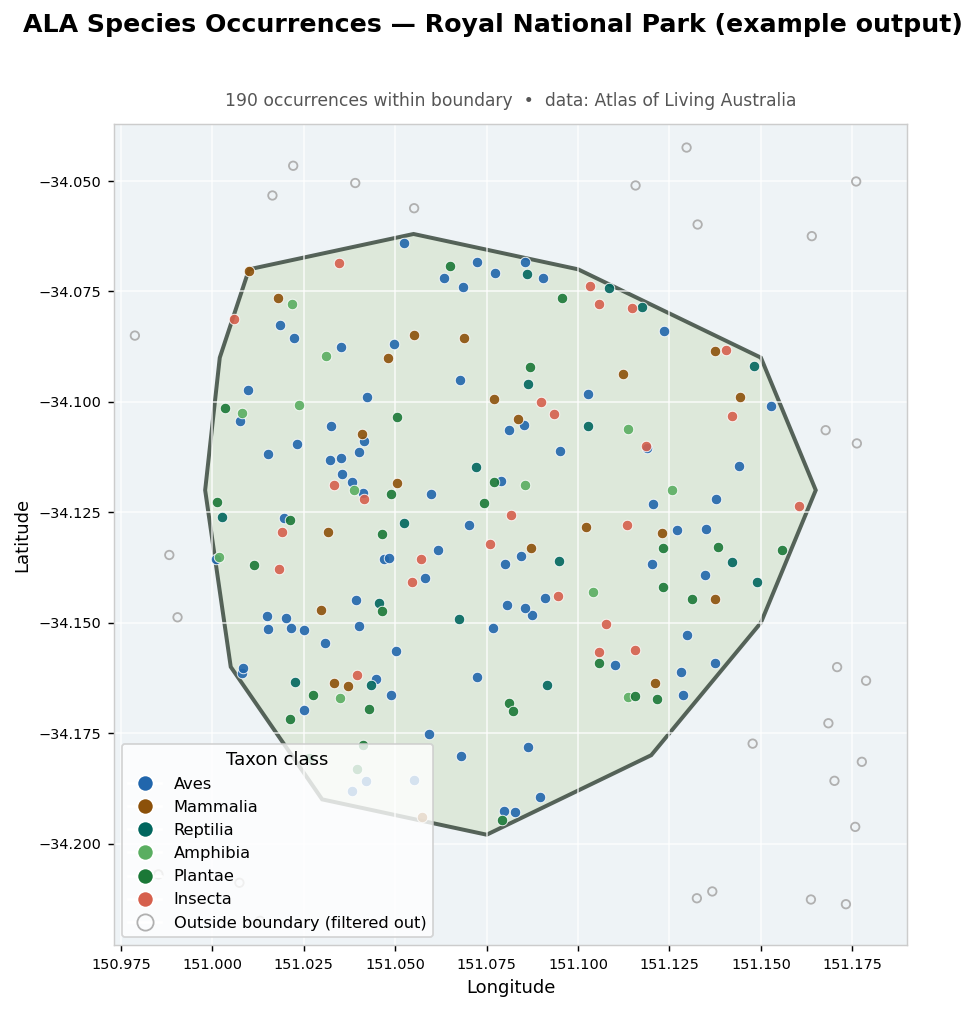
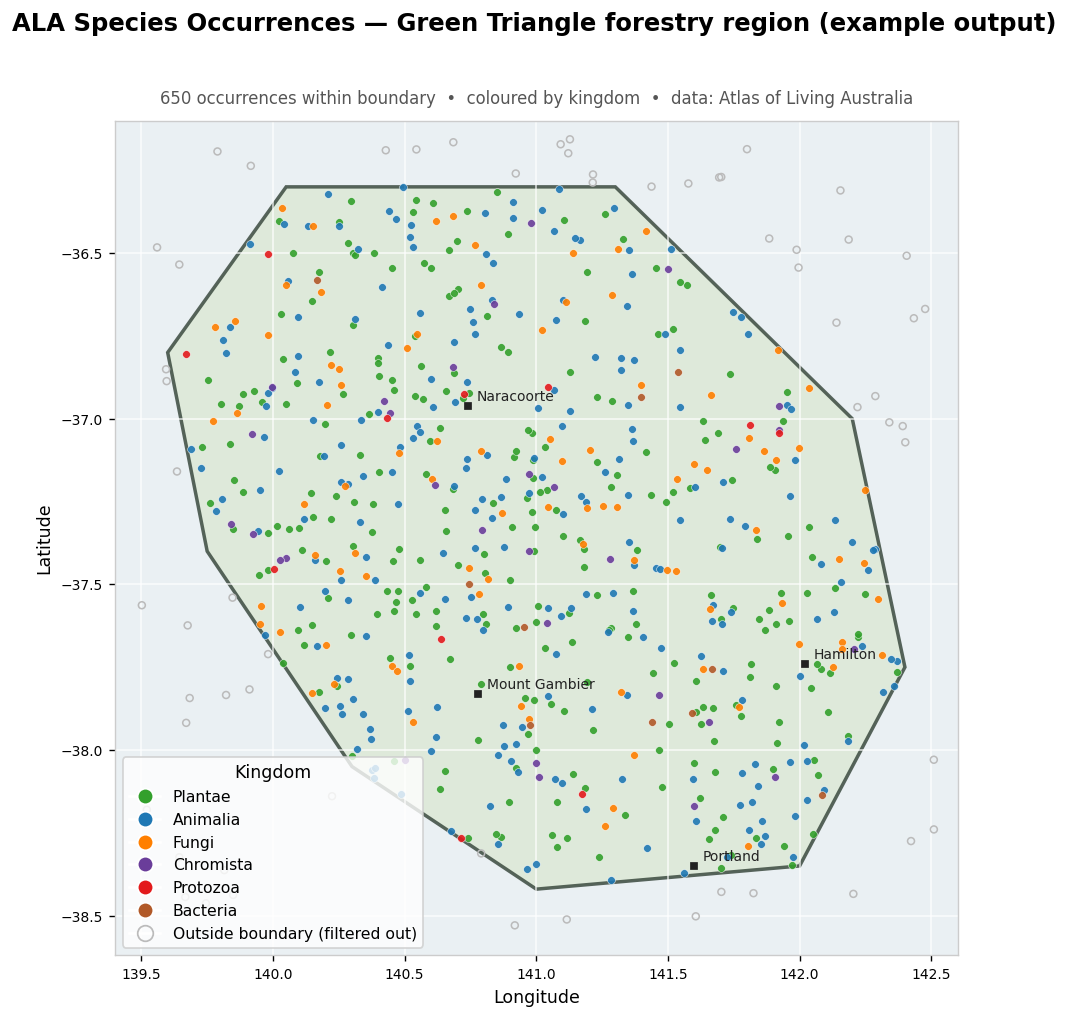
Add files via upload
Update to Green Triangle + kingdom colours + live map

diff --git a/src/mapping.py b/src/mapping.py
@@ -1,5 +1,10 @@
 """Turn a DataFrame of occurrences into portable outputs: CSV, GeoJSON, and an
 interactive Leaflet map (via Folium) that opens in any browser.
+
+Markers are coloured by biological *kingdom* (Animalia, Plantae, Fungi, ...).
+Kingdom is used rather than the finer taxonomic class because a large region can
+contain 30+ classes, which is unreadable on one map; a handful of kingdoms keeps
+the legend clear.
 """
 from __future__ import annotations
 
@@ -13,21 +18,22 @@ from . import config
 
 log = logging.getLogger(__name__)
 
-# Colour per high-level taxon class, for map markers and legend.
-GROUP_COLOURS = {
-    "Aves": "#2166ac",          # birds
-    "Mammalia": "#8c510a",      # mammals
-    "Reptilia": "#01665e",      # reptiles
-    "Amphibia": "#5aae61",      # amphibians
-    "Plantae": "#1b7837",       # plants
-    "Magnoliopsida": "#1b7837",
-    "Insecta": "#d6604d",       # insects
+# One clear colour per kingdom, plus a fallback for anything unclassified.
+KINGDOM_COLOURS = {
+    "Animalia": "#1f78b4",   # blue
+    "Plantae": "#33a02c",    # green
+    "Fungi": "#ff7f00",      # orange
+    "Chromista": "#6a3d9a",  # purple
+    "Protozoa": "#e31a1c",   # red
+    "Protista": "#e31a1c",
+    "Bacteria": "#b15928",   # brown
+    "Archaea": "#a6761d",
 }
-DEFAULT_COLOUR = "#762a83"
+DEFAULT_COLOUR = "#999999"   # grey — unknown / unrecorded kingdom
 
 
-def _colour_for(taxon_class: str) -> str:
-    return GROUP_COLOURS.get(str(taxon_class), DEFAULT_COLOUR)
+def _colour_for(kingdom: str) -> str:
+    return KINGDOM_COLOURS.get(str(kingdom), DEFAULT_COLOUR)
 
 
 def photo_url(images_val) -> str:
@@ -41,12 +47,12 @@ def photo_url(images_val) -> str:
 
 
 def enrich(df: pd.DataFrame) -> pd.DataFrame:
-    """Add photoURL + a display date and normalise conservation columns."""
+    """Add photoURL + a display date and normalise text columns."""
     if df.empty:
         return df
     df = df.copy()
     df["photoURL"] = df["images"].apply(photo_url) if "images" in df.columns else ""
-    for col in ("stateConservation", "austConservation", "vernacularName", "classs"):
+    for col in ("stateConservation", "austConservation", "vernacularName", "classs", "kingdom"):
         if col not in df.columns:
             df[col] = ""
         df[col] = df[col].fillna("").astype(str)
@@ -74,6 +80,7 @@ def to_geojson(df: pd.DataFrame, path: str) -> None:
             "properties": {
                 "scientificName": r.get("scientificName", ""),
                 "vernacularName": r.get("vernacularName", ""),
+                "kingdom": r.get("kingdom", ""),
                 "class": r.get("classs", ""),
                 "eventDate": r.get("eventDateDisplay", ""),
                 "stateConservation": r.get("stateConservation", ""),
@@ -87,34 +94,35 @@ def to_geojson(df: pd.DataFrame, path: str) -> None:
 
 
 def build_map(df: pd.DataFrame, boundary_geom, path: str, title: str = "ALA species") -> None:
-    """Render an interactive Folium map with the boundary and coloured markers."""
+    """Render an interactive Folium map with the boundary and kingdom-coloured markers."""
     import folium  # imported here so the rest of the package works without folium
 
     minx, miny, maxx, maxy = boundary_geom.bounds
     center = [(miny + maxy) / 2, (minx + maxx) / 2]
-    fmap = folium.Map(location=center, zoom_start=12, tiles="CartoDB positron")
+    fmap = folium.Map(location=center, zoom_start=8, tiles="CartoDB positron")
 
     folium.GeoJson(
         boundary_geom.__geo_interface__,
         name="Boundary",
         style_function=lambda _: {"color": "#333", "weight": 2,
-                                  "fillColor": "#999", "fillOpacity": 0.08},
+                                  "fillColor": "#999", "fillOpacity": 0.06},
     ).add_to(fmap)
 
     for _, r in df.iterrows():
-        colour = _colour_for(r.get("classs", ""))
+        colour = _colour_for(r.get("kingdom", ""))
         photo = r.get("photoURL", "")
         img = f'<br><img src="{photo}" width="150">' if photo else ""
         popup = folium.Popup(
             f"<b><i>{r.get('scientificName','')}</i></b><br>"
             f"{r.get('vernacularName','')}<br>"
+            f"<small>{r.get('kingdom','')} · {r.get('classs','')}</small><br>"
             f"{r.get('eventDateDisplay','')}{img}",
             max_width=200,
         )
         folium.CircleMarker(
             location=[float(r["decimalLatitude"]), float(r["decimalLongitude"])],
-            radius=4, color=colour, fill=True, fill_color=colour, fill_opacity=0.8,
-            popup=popup,
+            radius=3, color=colour, fill=True, fill_color=colour, fill_opacity=0.8,
+            weight=0.5, popup=popup,
         ).add_to(fmap)
 
     _add_legend(fmap, df, title)
@@ -127,11 +135,11 @@ def build_map(df: pd.DataFrame, boundary_geom, path: str, title: str = "ALA spec
 def _add_legend(fmap, df: pd.DataFrame, title: str) -> None:
     import folium
 
-    classes = [c for c in df.get("classs", pd.Series(dtype=str)).unique() if str(c)]
+    kingdoms = [k for k in df.get("kingdom", pd.Series(dtype=str)).unique() if str(k)]
     rows = "".join(
-        f'<div><span style="background:{_colour_for(c)};width:10px;height:10px;'
-        f'display:inline-block;border-radius:50%;margin-right:6px;"></span>{c}</div>'
-        for c in sorted(classes)
+        f'<div><span style="background:{_colour_for(k)};width:10px;height:10px;'
+        f'display:inline-block;border-radius:50%;margin-right:6px;"></span>{k}</div>'
+        for k in sorted(kingdoms)
     )
     html = (
         f'<div style="position:fixed;bottom:24px;left:24px;z-index:9999;'

diff --git a/demo.py b/demo.py
@@ -63,7 +63,7 @@ def main(argv=None) -> int:
     mapping.to_csv(df, f"{OUT_DIR}/demo_species.csv")
     mapping.to_geojson(df, f"{OUT_DIR}/demo_species.geojson")
     mapping.build_map(df, boundary, f"{OUT_DIR}/demo_map.html",
-                      title="Royal National Park — ALA species")
+                      title="Green Triangle — ALA species")
 
     print(f"\nDone. {len(df)} occurrences mapped.")
     print(f"Open {OUT_DIR}/demo_map.html in your browser.")

diff --git a/src/config.py b/src/config.py
@@ -35,7 +35,7 @@ HEALTH_CHECK_PASS = 3
 NEEDED_FIELDS = [
     "uuid", "scientificName", "vernacularName",
     "decimalLatitude", "decimalLongitude", "eventDate",
-    "images", "classs", "stateConservation", "austConservation",
+    "images", "kingdom", "classs", "stateConservation", "austConservation",
 ]
 
 # Taxa we never want (open-ocean / marine species that stray into a bbox).

diff --git a/README.md b/README.md
@@ -10,8 +10,8 @@ management, then generalised so anyone can run it on a public conservation area.
 ![Example map output](docs/preview_map.png)
 
 *Example output: recent occurrences fetched from ALA and clipped to a boundary
-polygon (Royal National Park, NSW). Open circles are records that fell inside
-the bounding box but outside the actual polygon — they are filtered out.*
+polygon — the Green Triangle plantation forestry region on the SA/VIC border.
+Markers are coloured by biological kingdom.*
 
 ---
 
@@ -38,7 +38,7 @@ study in building a **resilient data pipeline** around one of them:
 The demo uses only the **public** ALA API — no keys, no logins.
 
 ```bash
-git clone https://github.com/<tcynh-happy>/ala-species-mapper.git
+git clone https://github.com/<your-username>/ala-species-mapper.git
 cd ala-species-mapper
 python -m venv .venv && source .venv/bin/activate   # Windows: .venv\Scripts\activate
 pip install -r requirements.txt
@@ -53,7 +53,9 @@ This writes three files to `output/`:
 | `demo_species.geojson` | GIS-ready points (QGIS, ArcGIS, geopandas, …) |
 | `demo_species.csv` | Flat table of every occurrence |
 
-Options: `python demo.py --months 12` to widen the look-back window.
+The Green Triangle is a large region, so the first run fetches a lot of records
+and can take a few minutes. For a quick test use a shorter window, e.g.
+`python demo.py --months 1`; use `--months 12` to widen it.
 
 ## Architecture
 
@@ -92,7 +94,7 @@ ala-species-mapper/
 │   ├── mapping.py          # CSV / GeoJSON / Folium map builders
 │   ├── arcgis_sink.py      # optional ArcGIS Online upload
 │   └── config.py           # env-based configuration
-├── data/demo_boundary.geojson   # public sample boundary
+├── data/demo_boundary.geojson   # Green Triangle sample boundary
 ├── docs/preview_map.png         # example output (above)
 ├── requirements.txt
 └── .env.example
